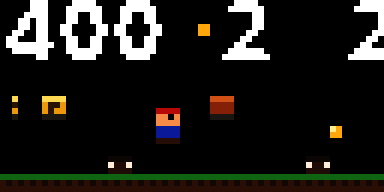
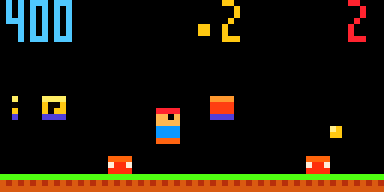
Brighten Jumpman graphics for veneer displays and shrink HUD

diff --git a/jumpman_editor/lib/src/ui/map_view.dart b/jumpman_editor/lib/src/ui/map_view.dart
@@ -532,29 +532,29 @@ class _LevelPainter extends CustomPainter {
 // after the C functions that use them, so a mismatch is a visible diff rather
 // than a guessed colour.
 
-const Color _grass = Color(0xFF48B050); // jm_draw_ground: 72,176,80
-const Color _dirt = Color(0xFF784828); // 120,72,40
-const Color _dirtDark = Color(0xFF54301A); // 84,48,26
-const Color _pipeBody = Color(0xFF28B848); // jm_draw_pipes: 40,184,72
-const Color _pipeRim = Color(0xFF78F090); // 120,240,144
-const Color _pipeShade = Color(0xFF187830); // 24,120,48
-const Color _brick = Color(0xFFC46C30); // jm_draw_blocks: 196,108,48
-const Color _brickLit = Color(0xFFECA058); // 236,160,88
-const Color _stone = Color(0xFF9898A0); // 152,152,160
-const Color _stoneLit = Color(0xFFC8C8D0); // 200,200,208
-const Color _coin = Color(0xFFFFD840); // 255,216,64 (coins and gold blocks)
-const Color _goldLit = Color(0xFFFFF0A0); // 255,240,160
-const Color _used = Color(0xFF605850); // 96,88,80
-const Color _usedLit = Color(0xFF807870); // 128,120,112
-const Color _mark = Color(0xFF785408); // 120,84,8
+const Color _grass = Color(0xFFA0FF50); // jm_draw_ground: 160,255,80
+const Color _dirt = Color(0xFFF0A850); // 240,168,80
+const Color _dirtDark = Color(0xFFE08040); // 224,128,64
+const Color _pipeBody = Color(0xFF40F0B0); // jm_draw_pipes: 64,240,176
+const Color _pipeRim = Color(0xFFB0FFE0); // 176,255,224
+const Color _pipeShade = Color(0xFF20D0A0); // 32,208,160
+const Color _brick = Color(0xFFFF9050); // jm_draw_blocks: 255,144,80
+const Color _brickLit = Color(0xFFFFD080); // 255,208,128
+const Color _stone = Color(0xFF80D0FF); // 128,208,255
+const Color _stoneLit = Color(0xFFD0F0FF); // 208,240,255
+const Color _coin = Color(0xFFFFE850); // 255,232,80 (coins and gold blocks)
+const Color _goldLit = Color(0xFFFFF8B0); // 255,248,176
+const Color _used = Color(0xFFA090F0); // 160,144,240
+const Color _usedLit = Color(0xFFD0C0FF); // 208,192,255
+const Color _mark = Color(0xFF402000); // 64,32,0
 const Color _glint = Color(0xFFFFF8C8); // 255,248,200
-const Color _shellRim = Color(0xFF38C858); // jm_draw_shell: 56,200,88
-const Color _shellDark = Color(0xFF187838); // 24,128,56
-const Color _poleGrey = Color(0xFFB0B0B8); // jm_draw_checkpoint: 176,176,184
-const Color _flagPole = Color(0xFFD8D8E0); // jm_draw_flag: 216,216,224
-const Color _flagCloth = Color(0xFFF04840); // 240,72,64
+const Color _shellRim = Color(0xFF60FF80); // jm_draw_shell: 96,255,128
+const Color _shellDark = Color(0xFF20D0A0); // 32,208,160
+const Color _poleGrey = Color(0xFF80E0FF); // jm_draw_checkpoint: 128,224,255
+const Color _flagPole = Color(0xFFD0F0FF); // jm_draw_flag: 208,240,255
+const Color _flagCloth = Color(0xFFFF7080); // 255,112,128
 const Color _white = Color(0xFFFFF8F0); // the sprite palette's white
-const Color _startMarker = Color(0xFFE03830); // the player's cap red
+const Color _startMarker = Color(0xFFFF7080); // the player's cap red
 const Color _selection = Color(0xFF00E5FF);
 const Color _cameraWindow = Color(0x3320C0FF);
 const Color _ruler = Color(0xFF202024);
@@ -563,18 +563,18 @@ const Color _rulerText = Color(0xFFD0D0D8);
 
 /// `jm_sprite_col`, letter for letter.
 const Map<String, Color> _spriteColours = {
-  'r': Color(0xFFE03830),
-  's': Color(0xFFFCC898),
-  'd': Color(0xFF3860D0),
-  'b': Color(0xFF704424),
-  'k': Color(0xFF181818),
+  'r': Color(0xFFFF7080),
+  's': Color(0xFFFFE0A0),
+  'd': Color(0xFF40D0FF),
+  'b': Color(0xFFFFB050),
+  'k': Color(0xFF000000),
   'w': Color(0xFFFFF8F0),
-  'g': Color(0xFF38C858),
-  'h': Color(0xFF187838),
-  'y': Color(0xFFF8D040),
-  'p': Color(0xFFFCC898),
-  'a': Color(0xFF40281A),
-  'n': Color(0xFF68402C),
+  'g': Color(0xFF60FF80),
+  'h': Color(0xFF20D0A0),
+  'y': Color(0xFFFFE850),
+  'p': Color(0xFFFFE0A0),
+  'a': Color(0xFFFFB040),
+  'n': Color(0xFFFF8040),
 };
 
 /// `jm_spr_goomba` and `jm_spr_koopa`, letter for letter.

diff --git a/gamekit/examples/jumpman/game_jumpman.c b/gamekit/examples/jumpman/game_jumpman.c
@@ -1421,23 +1421,23 @@ static void jm_fill(ml_canvas *c, int cam, int x, int y, int w, int h, ml_rgb co
 }
 
 /* One palette for every sprite in the game, so a creature is a picture in the
- * source and nothing else. Letters follow the file's module comment; 'a' and
- * 'n' are the goomba's own two browns, kept from the blob it grew out of. */
+ * source and nothing else. Bright, multi-channel colours survive veneer loss;
+ * only inset eyes and block marks stay dark. The background stays unlit. */
 static ml_rgb jm_sprite_col(char ch)
 {
     switch (ch) {
-    case 'r': return ML_RGB(224, 56, 48);   /* red: cap, plant head */
-    case 's': return ML_RGB(252, 200, 152); /* skin */
-    case 'd': return ML_RGB(56, 96, 208);   /* denim */
-    case 'b': return ML_RGB(112, 68, 36);   /* boot brown */
-    case 'k': return ML_RGB(24, 24, 24);    /* dark: the player's eye */
+    case 'r': return ML_RGB(255, 112, 128);   /* red: cap, plant head */
+    case 's': return ML_RGB(255, 224, 160); /* skin */
+    case 'd': return ML_RGB(64, 208, 255);   /* denim */
+    case 'b': return ML_RGB(255, 176, 80);   /* amber boots */
+    case 'k': return ML_RGB(0, 0, 0);    /* dark: the player's eye */
     case 'w': return ML_RGB(255, 248, 240); /* white */
-    case 'g': return ML_RGB(56, 200, 88);   /* green: koopa and shell */
-    case 'h': return ML_RGB(24, 128, 56);   /* dark green */
-    case 'y': return ML_RGB(248, 208, 64);  /* yellow: the koopa's head */
-    case 'p': return ML_RGB(252, 200, 152); /* cream: the mushroom's stem */
-    case 'a': return ML_RGB(64, 40, 26);    /* the goomba's cap */
-    case 'n': return ML_RGB(104, 64, 44);   /* the goomba's body */
+    case 'g': return ML_RGB(96, 255, 128);   /* green: koopa and shell */
+    case 'h': return ML_RGB(32, 208, 160);   /* teal detail */
+    case 'y': return ML_RGB(255, 232, 80);  /* yellow: the koopa's head */
+    case 'p': return ML_RGB(255, 224, 160); /* cream: the mushroom's stem */
+    case 'a': return ML_RGB(255, 176, 64);    /* the goomba's orange cap */
+    case 'n': return ML_RGB(255, 128, 64);   /* the goomba's body */
     default:  return ML_RGB(0, 0, 0);       /* unreachable: sprite data only */
     }
 }
@@ -1462,9 +1462,9 @@ static const char *const jm_spr_mushroom[ITEM_H] = { ".rr.", "rwrw", "rrrr", ".p
 
 static void jm_draw_ground(ml_canvas *c, const jumpman_state *s)
 {
-    const ml_rgb grass = ML_RGB(72, 176, 80);
-    const ml_rgb dirt  = ML_RGB(120, 72, 40);
-    const ml_rgb dark  = ML_RGB(84, 48, 26);
+    const ml_rgb grass = ML_RGB(160, 255, 80);
+    const ml_rgb dirt  = ML_RGB(240, 168, 80);
+    const ml_rgb dark  = ML_RGB(224, 128, 64);
     const int cam = s->cam;
 
     for (int x = cam; x < cam + JUMP_W; x++) {
@@ -1482,9 +1482,9 @@ static void jm_draw_ground(ml_canvas *c, const jumpman_state *s)
  * across the top and a highlight down the left edge. */
 static void jm_draw_pipes(ml_canvas *c, const jumpman_state *s)
 {
-    const ml_rgb body  = ML_RGB(40, 184, 72);
-    const ml_rgb rim   = ML_RGB(120, 240, 144);
-    const ml_rgb shade = ML_RGB(24, 120, 48);
+    const ml_rgb body  = ML_RGB(64, 240, 176);
+    const ml_rgb rim   = ML_RGB(176, 255, 224);
+    const ml_rgb shade = ML_RGB(32, 208, 160);
     const int cam = s->cam;
 
     for (int i = 0; i < PIPE_SLOTS; i++) {
@@ -1504,7 +1504,7 @@ static void jm_draw_pipes(ml_canvas *c, const jumpman_state *s)
  * and its stem down the pipe's middle to the rim. */
 static void jm_draw_plants(ml_canvas *c, const jumpman_state *s)
 {
-    const ml_rgb stem = ML_RGB(24, 120, 48);
+    const ml_rgb stem = ML_RGB(32, 208, 160);
     const int cam = s->cam;
 
     for (int i = 0; i < PIPE_SLOTS; i++) {
@@ -1530,15 +1530,15 @@ static void jm_draw_plants(ml_canvas *c, const jumpman_state *s)
  */
 static void jm_draw_blocks(ml_canvas *c, const jumpman_state *s)
 {
-    const ml_rgb brick = ML_RGB(196, 108, 48);
-    const ml_rgb lit   = ML_RGB(236, 160, 88);
-    const ml_rgb stone = ML_RGB(152, 152, 160);
-    const ml_rgb stone_lit = ML_RGB(200, 200, 208);
-    const ml_rgb gold  = ML_RGB(248, 208, 64);
-    const ml_rgb gold_lit = ML_RGB(255, 240, 160);
-    const ml_rgb used  = ML_RGB(96, 88, 80);
-    const ml_rgb used_lit = ML_RGB(128, 120, 112);
-    const ml_rgb mark  = ML_RGB(120, 84, 8);
+    const ml_rgb brick = ML_RGB(255, 144, 80);
+    const ml_rgb lit   = ML_RGB(255, 208, 128);
+    const ml_rgb stone = ML_RGB(128, 208, 255);
+    const ml_rgb stone_lit = ML_RGB(208, 240, 255);
+    const ml_rgb gold  = ML_RGB(255, 232, 80);
+    const ml_rgb gold_lit = ML_RGB(255, 248, 176);
+    const ml_rgb used  = ML_RGB(160, 144, 240);
+    const ml_rgb used_lit = ML_RGB(208, 192, 255);
+    const ml_rgb mark  = ML_RGB(64, 32, 0);
     const int cam = s->cam;
 
     for (int x = cam; x < cam + JUMP_W; ) {
@@ -1579,7 +1579,7 @@ static void jm_draw_blocks(ml_canvas *c, const jumpman_state *s)
 
 static void jm_draw_pops(ml_canvas *c, const jumpman_state *s)
 {
-    const ml_rgb gold = ML_RGB(255, 216, 64);
+    const ml_rgb gold = ML_RGB(255, 232, 80);
     const ml_rgb glint = ML_RGB(255, 248, 200);
     for (int i = 0; i < POP_SLOTS; i++) {
         const jm_pop *p = &s->pop[i];
@@ -1591,7 +1591,7 @@ static void jm_draw_pops(ml_canvas *c, const jumpman_state *s)
 
 static void jm_draw_coins(ml_canvas *c, const jumpman_state *s)
 {
-    const ml_rgb gold = ML_RGB(255, 216, 64);
+    const ml_rgb gold = ML_RGB(255, 232, 80);
     const ml_rgb glint = ML_RGB(255, 248, 200);
     const int cam = s->cam;
     for (int i = 0; i < COIN_SLOTS; i++) {
@@ -1619,8 +1619,8 @@ static void jm_draw_items(ml_canvas *c, const jumpman_state *s)
  * slides, which is the whole of its spin at four pixels across. */
 static void jm_draw_shell(ml_canvas *c, const jumpman_state *s, const jm_enemy *e)
 {
-    const ml_rgb rim  = ML_RGB(56, 200, 88);
-    const ml_rgb dark = ML_RGB(24, 128, 56);
+    const ml_rgb rim  = ML_RGB(96, 255, 128);
+    const ml_rgb dark = ML_RGB(32, 208, 160);
     const int x = e->x >> 8, y = e->y >> 8;
     const int spin = e->state == ES_SLIDE ? (e->anim >> 2) & 3 : 1;
     jm_fill(c, s->cam, x, y, ENEMY_W, 1, rim);
@@ -1651,13 +1651,13 @@ static void jm_draw_enemies(ml_canvas *c, const jumpman_state *s)
     }
 }
 
-/* The checkpoint: a short pole and pennant, grey until the player passes it and
+/* The checkpoint: a short pole and pennant, cyan until the player passes it and
  * gold from then on. */
 static void jm_draw_checkpoint(ml_canvas *c, const jumpman_state *s)
 {
     const int top = 12;
-    const ml_rgb grey = ML_RGB(176, 176, 184);
-    const ml_rgb gold = ML_RGB(248, 208, 64);
+    const ml_rgb grey = ML_RGB(128, 224, 255);
+    const ml_rgb gold = ML_RGB(255, 232, 80);
     const ml_rgb col = s->checkpoint ? gold : grey;
     jm_fill(c, s->cam, s->checkpoint_x, top, 1, JUMP_GROUND_ROW - top, col);
     jm_fill(c, s->cam, s->checkpoint_x + 1, top, 2, 2, col);
@@ -1667,8 +1667,8 @@ static void jm_draw_checkpoint(ml_canvas *c, const jumpman_state *s)
  * Touching the pole is what ends the run. */
 static void jm_draw_flag(ml_canvas *c, const jumpman_state *s)
 {
-    const ml_rgb pole  = ML_RGB(216, 216, 224);
-    const ml_rgb cloth = ML_RGB(240, 72, 64);
+    const ml_rgb pole  = ML_RGB(208, 240, 255);
+    const ml_rgb cloth = ML_RGB(255, 112, 128);
     const int top = JUMP_GROUND_ROW - 9;
     jm_fill(c, s->cam, FLAG_X, top, 1, JUMP_GROUND_ROW - top, pole);
     for (int i = 0; i < 3; i++)
@@ -1683,11 +1683,11 @@ static void jm_draw_flag(ml_canvas *c, const jumpman_state *s)
  * skipped on every other four-tick block. */
 static void jm_draw_player(ml_canvas *c, const jumpman_state *s)
 {
-    const ml_rgb cap   = ML_RGB(224, 56, 48);
-    const ml_rgb skin  = ML_RGB(252, 200, 152);
-    const ml_rgb denim = ML_RGB(56, 96, 208);
-    const ml_rgb boots = ML_RGB(112, 68, 36);
-    const ml_rgb eye   = ML_RGB(24, 24, 24);
+    const ml_rgb cap   = ML_RGB(255, 112, 128);
+    const ml_rgb skin  = ML_RGB(255, 224, 160);
+    const ml_rgb denim = ML_RGB(64, 208, 255);
+    const ml_rgb boots = ML_RGB(255, 176, 80);
+    const ml_rgb eye   = ML_RGB(0, 0, 0);
     const int x = s->px >> 8;
     const int y = s->py >> 8;
     const int cam = s->cam;
@@ -1707,10 +1707,10 @@ static void jm_draw_player(ml_canvas *c, const jumpman_state *s)
 
 static void jm_draw_hud(ml_canvas *c, const jumpman_state *s)
 {
-    const ml_font *f = ml_font_find("digits10");
+    const ml_font *f = ml_font_find("micro7");
     if (!f) f = ml_font_default();
-    const ml_rgb hud = ML_RGB(255, 255, 255);
-    const ml_rgb gold = ML_RGB(255, 216, 64);
+    const ml_rgb hud = ML_RGB(160, 232, 255);
+    const ml_rgb gold = ML_RGB(255, 232, 80);
     char buf[8];
 
     snprintf(buf, sizeof(buf), "%u", (unsigned)s->score);
@@ -1719,26 +1719,26 @@ static void jm_draw_hud(ml_canvas *c, const jumpman_state *s)
     /* The coin count wears a coin, so the two digits beside it need no label. */
     ml_canvas_fill_rect(c, ML_RECT(33, 4, 2, 2), gold);
     snprintf(buf, sizeof(buf), "%u", (unsigned)s->coin_count);
-    ml_text_draw(c, f, 37, 0, buf, hud, ML_SCALE_1X);
+    ml_text_draw(c, f, 37, 0, buf, gold, ML_SCALE_1X);
 
     snprintf(buf, sizeof(buf), "%u", (unsigned)s->lives);
-    ml_text_draw(c, f, 58, 0, buf, hud, ML_SCALE_1X);
+    ml_text_draw(c, f, 58, 0, buf, jm_sprite_col('r'), ML_SCALE_1X);
 }
 
 static void jm_draw_terminal(const jumpman_state *s, ml_canvas *c)
 {
     char buf[8];
-    const ml_font *df = ml_font_find("digits10");
+    const ml_font *df = ml_font_find("micro7");
     if (!df) df = ml_font_default();
     snprintf(buf, sizeof(buf), "%u", (unsigned)s->score);
     ml_text_draw(c, df, 1, 0, buf, ML_RGB(255, 255, 255), ML_SCALE_1X);
 
     const char *word = s->status == JM_WON ? "WIN" : "OVER";
-    const ml_font *of = ml_font_find("sans10");
+    const ml_font *of = ml_font_find("sans8");
     if (!of) of = ml_font_default();
     const int w = ml_text_width(of, word, ML_SCALE_1X);
     ml_text_draw(c, of, (JUMP_W - w) / 2, 17, word,
-                 s->status == JM_WON ? ML_RGB(120, 255, 140) : ML_RGB(255, 60, 60),
+                 s->status == JM_WON ? ML_RGB(120, 255, 140) : ML_RGB(255, 128, 144),
                  ML_SCALE_1X);
 }
 

diff --git a/gamekit/host/motion_axis_test.c b/gamekit/host/motion_axis_test.c
@@ -708,16 +708,17 @@ static void test_cave(void)
 
 /* ---- jumpman ------------------------------------------------------------ */
 
-/* The leftmost column of the player on the panel. The cap is red, and the
- * boots that share it are in the same columns, so the scan lands on the same
- * edge either way. The level's flag is red too, but it stands at the end of a
- * 256-column level and the camera never gets near it inside 30 columns. */
+/* The leftmost coral pixel of the player on the panel. Blue exceeds green in
+ * the cap, unlike the orange enemies and terrain. The matching goal flag is
+ * at the far end of the level, outside this motion script's opening window. */
 static int jumpman_player_x(ml_game_session *s)
 {
     const uint8_t *rgba = ml_game_render_rgba(s);
     for (int x = 0; x < 50; x++)
-        for (int y = 10; y < PANEL_H; y++)
-            if (lit(rgba, x, y, 1, 0, 0)) return x;
+        for (int y = 10; y < PANEL_H; y++) {
+            const uint8_t *p = rgba + ((size_t)y * PANEL_W + x) * 4;
+            if (p[0] > 200 && p[0] > p[2] && p[2] > p[1]) return x;
+        }
     return -1;
 }
 

diff --git a/docs/games.md b/docs/games.md
@@ -542,6 +542,14 @@ hit consumes one of three lives, reloads the authored level, and restarts at the
 checkpoint. Scores cap at 9999; terminal boards show the score and `OVER` or
 `WIN`. Replay belongs to the app.
 
+Jumpman's veneer-oriented palette keeps the background black and uses bright
+multi-channel colours for terrain, enemies and pickups; only inset eyes and
+block markings stay dark. The HUD uses compact 3x7 `micro7` digits, with cyan
+score, gold coin count and coral lives; end-screen labels use `sans8`. Level
+geometry and collision bounds are unchanged. The editor's map palette matches
+the game. Preview attenuation with `game-cli jumpman --led --mirror 20`; this
+is a visibility check, not a calibration for a particular veneer or panel.
+
 Picker thumbnails are real CLI captures at seed 1: 90 frames for Racer, Maze,
 Gallery and Jumpman; 20 for Cave, whose default button demo ends before frame 90;
 4 for Tetris, whose demo does not press anything before tick 4, so its capture is
